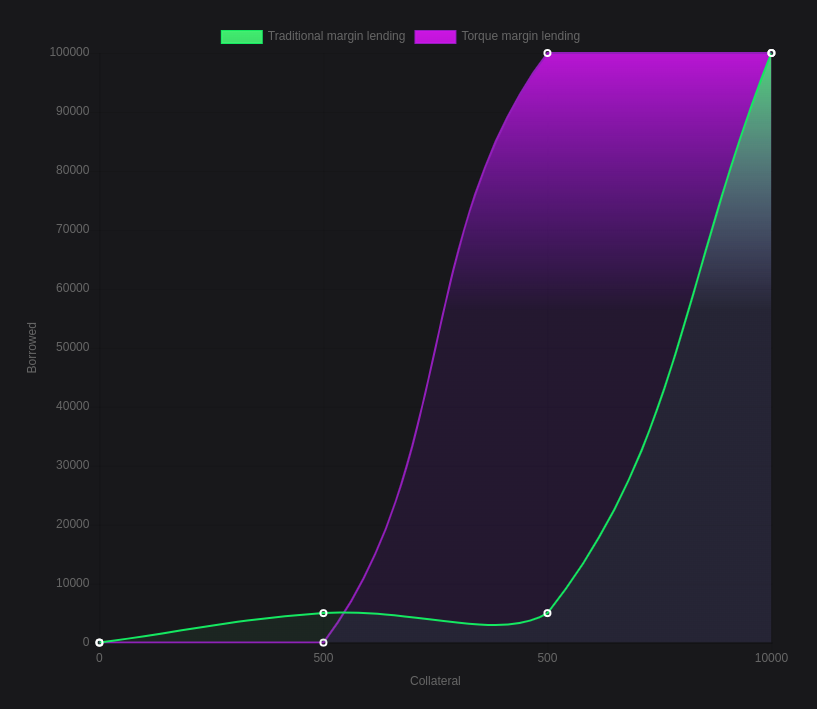
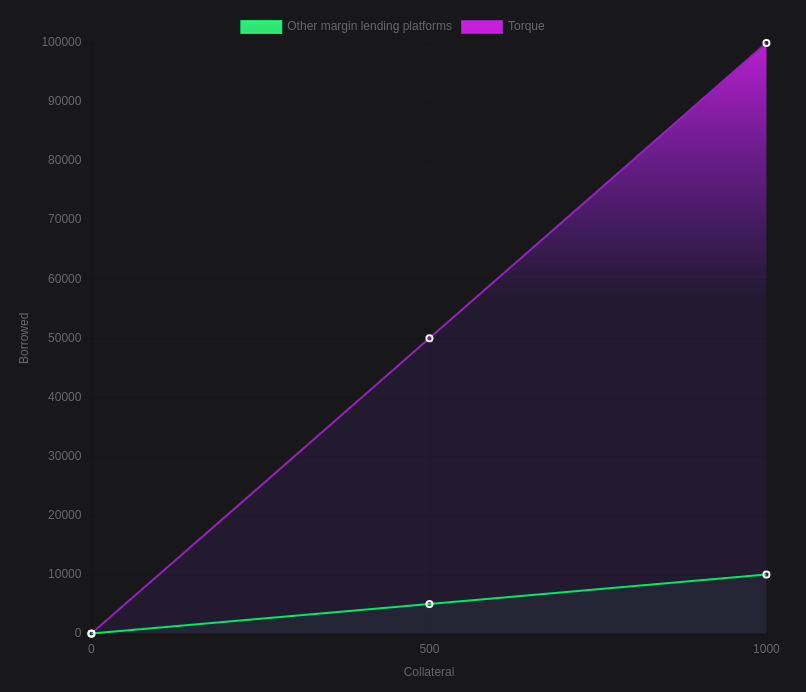
🎉 Update

diff --git a/landing/index.html b/landing/index.html
@@ -30,10 +30,10 @@
     <link rel="icon" type="image/x-icon" href="public/favicon.ico" />
     <link rel="manifest" href="public/manifest.json" />
 
-    <title>Torque - Unlimited DeFi Leveraging</title>
+    <title>Torque - Extreme DeFi Leveraging</title>
     <meta
       name="description"
-      content="The official website of the Torque DeFi leveraging protocol. Borrow unlimited amounts of crypto against your collateral, or stake for high APY's and yield farming bonuses."
+      content="The official website of the Torque DeFi leveraging protocol. Borrow extreme amounts of crypto against your collateral, or stake for high APY's and yield farming bonuses."
     />
     <meta name="theme-color" content="#921ebb" />
     <meta charset="UTF-8" />
@@ -41,19 +41,19 @@
     <meta name="robots" content="index, follow" />
     <link rel="canonical" href="https://torque.money" />
 
-    <meta name="og:title" content="Torque - Unlimited DeFi Leveraging" />
+    <meta name="og:title" content="Torque - Extreme DeFi Leveraging" />
     <meta
       name="og:description"
-      content="The official website of the Torque DeFi leveraging protocol. Borrow unlimited amounts of crypto against your collateral, or stake for high APY's and yield farming bonuses."
+      content="The official website of the Torque DeFi leveraging protocol. Borrow extreme amounts of crypto against your collateral, or stake for high APY's and yield farming bonuses."
     />
     <meta name="og:image" content="https://i.imgur.com/AZEmWaD.png" />
     <meta property="og:url" content="https://torque.money" />
 
     <meta name="twitter:card" content="summary_large_image" />
-    <meta name="twitter:title" content="Torque - Unlimited DeFi Leveraging" />
+    <meta name="twitter:title" content="Torque - Extreme DeFi Leveraging" />
     <meta
       name="twitter:description"
-      content="The official website of the Torque DeFi leveraging protocol. Borrow unlimited amounts of crypto against your collateral, or stake for high APY's and yield farming bonuses."
+      content="The official website of the Torque DeFi leveraging protocol. Borrow extreme amounts of crypto against your collateral, or stake for high APY's and yield farming bonuses."
     />
     <meta name="twitter:site" content="@torque_money" />
     <meta name="twitter:image" content="https://i.imgur.com/AZEmWaD.png" />
@@ -71,10 +71,10 @@
           <i></i>
         </div>
         <ul>
-          <li><a href="#about">About</a></li>
-          <li><a href="">TAU</a></li>
-          <li><a href="">DAO</a></li>
-          <li><a href="https://github.com/Torque-Money">GitHub</a></li>
+          <li><a class="link ignore" href="#about">About</a></li>
+          <li>
+            <a class="link ignore" href="https://docs.torque.money/">Docs</a>
+          </li>
           <li class="ignore">
             <a href="https://app.torque.money/" class="button">App</a>
           </li>
@@ -83,10 +83,8 @@
       <div class="nav">
         <ul>
           <li><a class="link" href="#about">About</a></li>
-          <li><a class="link" href="">TAU</a></li>
-          <li><a class="link" href="">DAO</a></li>
           <li>
-            <a class="link" href="https://github.com/Torque-Money">GitHub</a>
+            <a class="link" href="https://docs.torque.money/">Docs</a>
           </li>
           <li class="ignore">
             <a href="https://app.torque.money/" class="button">App</a>
@@ -96,14 +94,18 @@
       <div class="header">
         <div class="title">
           <h1>
-            Unlimited Defi
+            Extreme Defi
             <span style="font-size: 125%; color: #921ebb">Leveraging</span>
           </h1>
           <ul>
             <li>
-              <a class="button" href="https://app.torque.money/">Leverage</a>
+              <a class="button" href="https://app.torque.money/#/leverage/long"
+                >Leverage</a
+              >
             </li>
-            <li><a class="link" href="https://app.torque.money/">Stake</a></li>
+            <li>
+              <a class="link" href="https://app.torque.money/#/stake">Stake</a>
+            </li>
           </ul>
         </div>
         <img class="logo" src="images/logo2.png" alt="Torque Logo" />
@@ -126,16 +128,18 @@
       <article class="no-limits">
         <section>
           <div class="bar"></div>
-          <h2>No Borrowing Limits</h2>
+          <h2>Leverage To The Extreme</h2>
           <p>
             Crypto is all about freedom, so why should you be restricted when
             margin trading?
           </p>
           <p>
             While we advise against taking such risky positions, our protocol
-            will let you leverage against your collateral with no limit.
+            will let you leverage up to a maximum of 125x.
           </p>
-          <a class="button" href="https://app.torque.money/">Borrow</a>
+          <a class="button" href="https://app.torque.money/#/leverage/long"
+            >Leverage</a
+          >
         </section>
         <img src="images/Graph.png" alt="Borrowing graph" />
       </article>
@@ -152,7 +156,7 @@
             Provide liquidity to our lending pool and you'll be rewarded with a
             competitive APY, while enjoying bonus yield farming rewards.
           </p>
-          <a class="button" href="https://app.torque.money/">Stake</a>
+          <a class="button" href="https://app.torque.money/#/stake">Stake</a>
         </section>
       </article>
     </main>
@@ -161,9 +165,13 @@
         <h2>Ready To Get Started?</h2>
         <ul>
           <li>
-            <a class="button" href="https://app.torque.money/">Leverage</a>
+            <a class="button" href="https://app.torque.money/#/leverage/long"
+              >Leverage</a
+            >
           </li>
-          <li><a class="link" href="https://app.torque.money/">Stake</a></li>
+          <li>
+            <a class="link" href="https://app.torque.money/#/stake">Stake</a>
+          </li>
         </ul>
       </div>
       <div class="footer">
@@ -171,21 +179,9 @@
           <li>
             <a class="link" href="https://twitter.com/torque_money">Twitter</a>
           </li>
-          <li><a class="link" href="">TAU</a></li>
-          <li><a class="link" href="">DAO</a></li>
+          <li><a class="link" href="https://docs.torque.money/">Docs</a></li>
           <li>
-            <a
-              class="link"
-              href="https://github.com/Torque-Money/Torque-Protocol"
-              >Docs</a
-            >
-          </li>
-          <li>
-            <a
-              class="link"
-              href="https://github.com/Torque-Money/Torque-Protocol/blob/main/README.md"
-              >Whitepaper</a
-            >
+            <a class="link" href="https://github.com/Torque-Money">GitHub</a>
           </li>
           <li>
             <a class="link" href="https://discord.gg/Wk33hnKtvx">Discord</a>

diff --git a/landing/css/styles.css b/landing/css/styles.css
@@ -10,9 +10,9 @@ a {
   color: white;
 }
 
-.link:hover {
+.link:not(.ignore):hover {
   transition: all 0.1s ease 0s;
-  color: #d860ca;
+  color: #bdbdbd;
 }
 
 .button {
@@ -20,10 +20,11 @@ a {
   background-color: #921ebb;
   padding: 8px 25px;
   border-radius: 8px;
+  box-shadow: 0px 0px 16px 2px rgba(189, 15, 219, 0.2);
 }
 
 .button:hover {
-  background-color: #7a0da2;
+  background-color: #9c2ec4;
 }
 
 .bar {

diff --git a/landing/css/main.css b/landing/css/main.css
@@ -52,10 +52,6 @@ article.returns section {
   align-items: flex-end;
 }
 
-article.returns h2 {
-  white-space: nowrap;
-}
-
 article.returns p {
   text-align: right;
 }
@@ -104,10 +100,6 @@ article.returns img {
   article.returns {
     flex-direction: column-reverse;
     margin: 100px auto;
-  }
-
-  article.returns h2 {
-    white-space: normal;
   }
 
   article.returns section {
